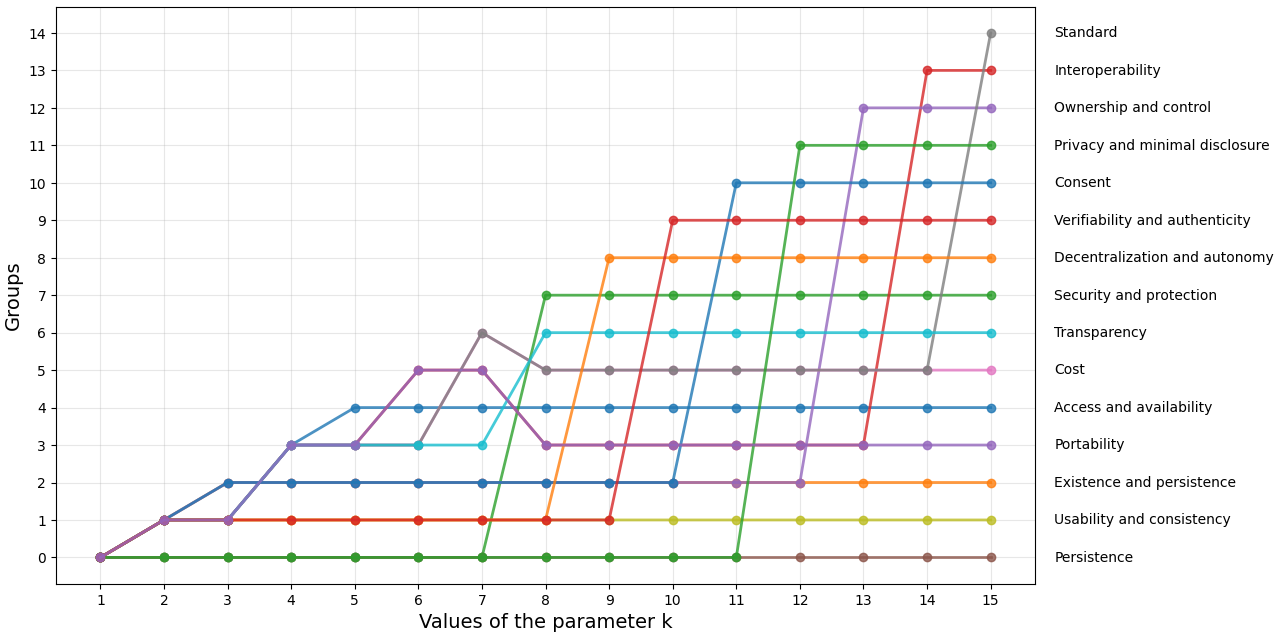
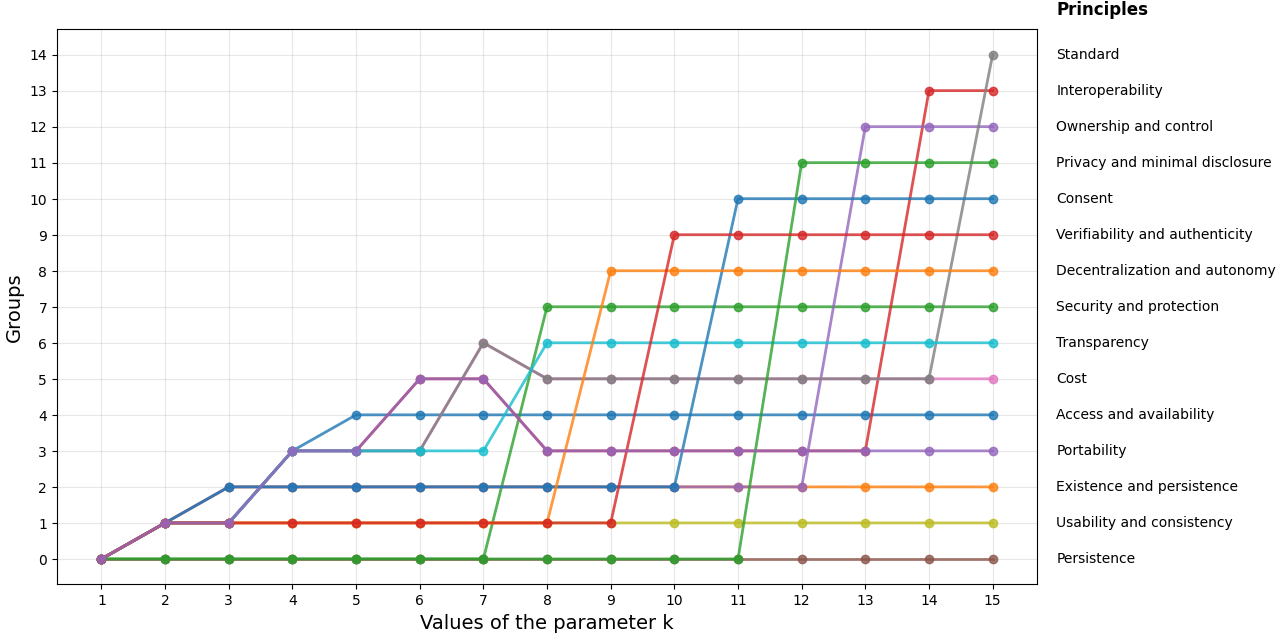
.

diff --git a/definition/program/clustering/kmeans/Principles_workflow_groups.py b/definition/program/clustering/kmeans/Principles_workflow_groups.py
@@ -2,7 +2,6 @@ import matplotlib.pyplot as plt
 import pandas as pd
 import numpy as np
 
-# Dati basati sulla prima immagine
 principles = [
     "Persistence", "Usability and consistency", "Existence and persistence", "Portability", "Access and availability", "Cost", "Transparency", "Security and protection", "Decentralization and autonomy", "Verifiability and authenticity", "Consent", "Privacy and minimal disclosure", "Ownership and control",
     "Interoperability", "Standard"
@@ -10,7 +9,6 @@ principles = [
 
 steps = [1, 2, 3, 4, 5, 6, 7, 8, 9, 10, 11, 12, 13, 14, 15]
 
-# Valori del gruppo a cui ogni principio appartiene in ogni step (estratti dalla tabella della prima immagine)
 group_assignments = [
     [0,1,1,3,4,4,4,4,4,4,4,4,4,4,4],  # Access and availability
     [0,1,2,2,2,2,2,2,2,2,2,2,2,2,2],  # Existence and persistence
@@ -29,21 +27,19 @@ group_assignments = [
     [0,1,1,3,3,5,5,3,3,3,3,3,3,3,3]  # Portability
 ]
 
-# Creazione del grafico
 fig, ax = plt.subplots(figsize=(15, 10))
 for i, principle in enumerate(principles):
     ax.plot(steps, group_assignments[i], marker="o", alpha=0.8, linewidth=2)
 
-# Personalizzazione
-title = ""
-ax.set_title(title, fontsize=16, weight='bold')
+ax.set_title("", fontsize=16, weight='bold')
 ax.set_xlabel("Values of the parameter k", fontsize=14)
 ax.set_ylabel("Groups", fontsize=14)
 ax.set_xticks(steps)
 ax.set_yticks(range(0, 15))
 ax.grid(visible=True, alpha=0.3)
 
-# Aggiunta dei principi sulla griglia a destra
+ax.text(16, 15, "Principles", fontsize=12, fontweight="bold", verticalalignment='bottom')
+
 y_positions = range(0, 15)
 for y_pos, principle in zip(y_positions, principles):
     ax.text(16, y_pos, principle, verticalalignment='center', fontsize=10)
